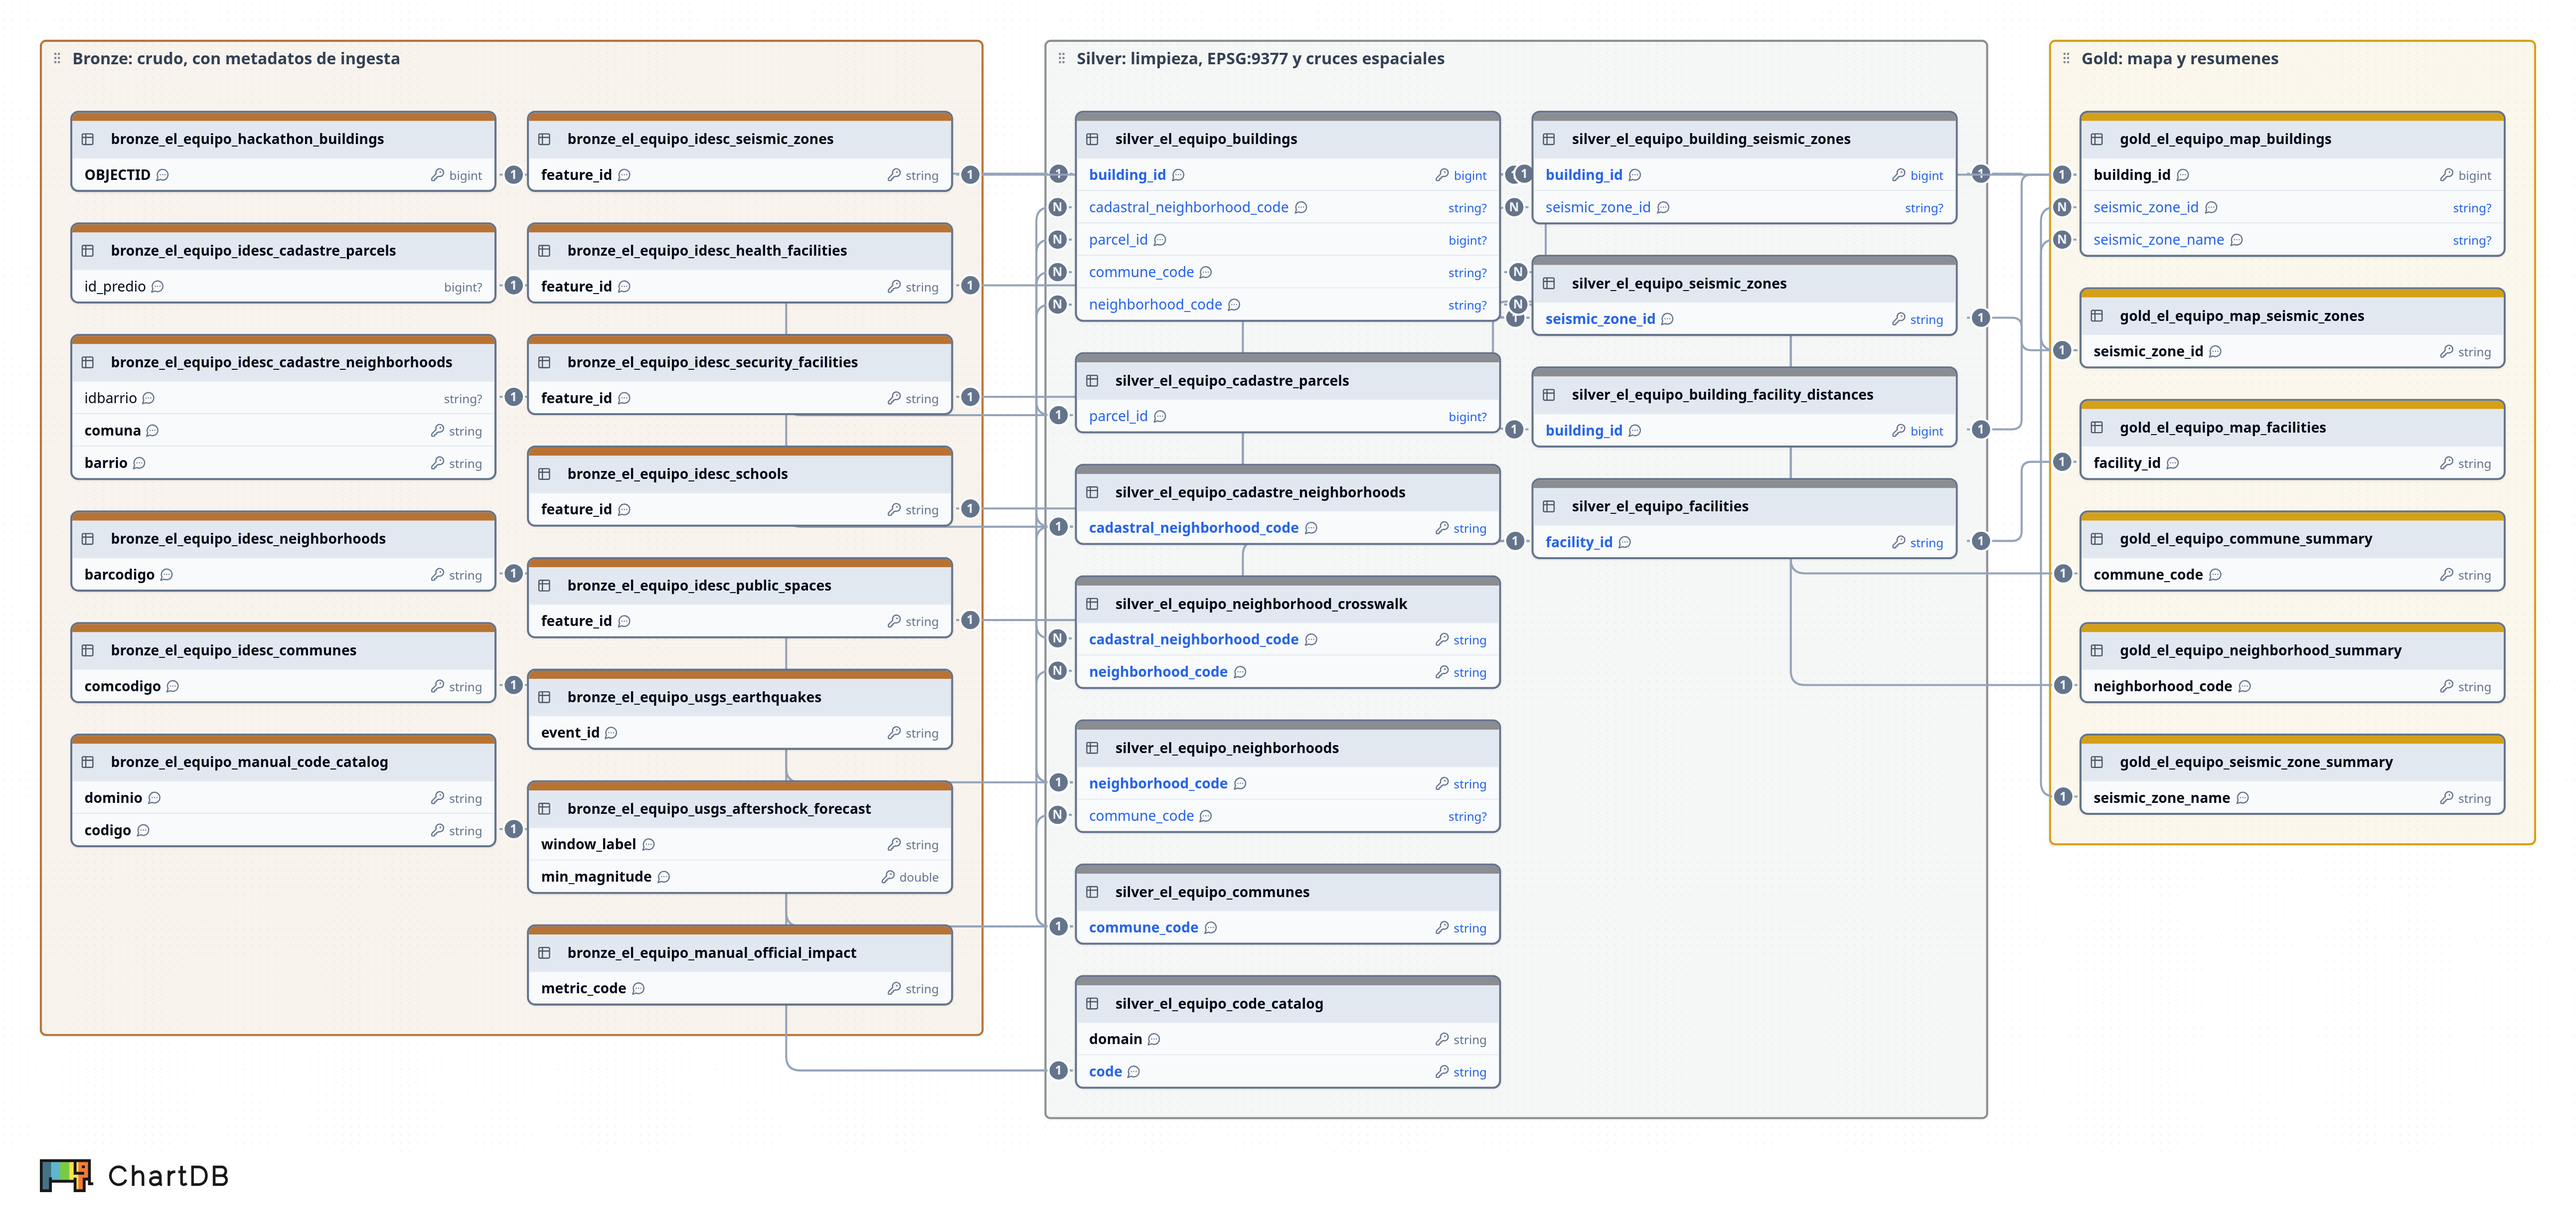
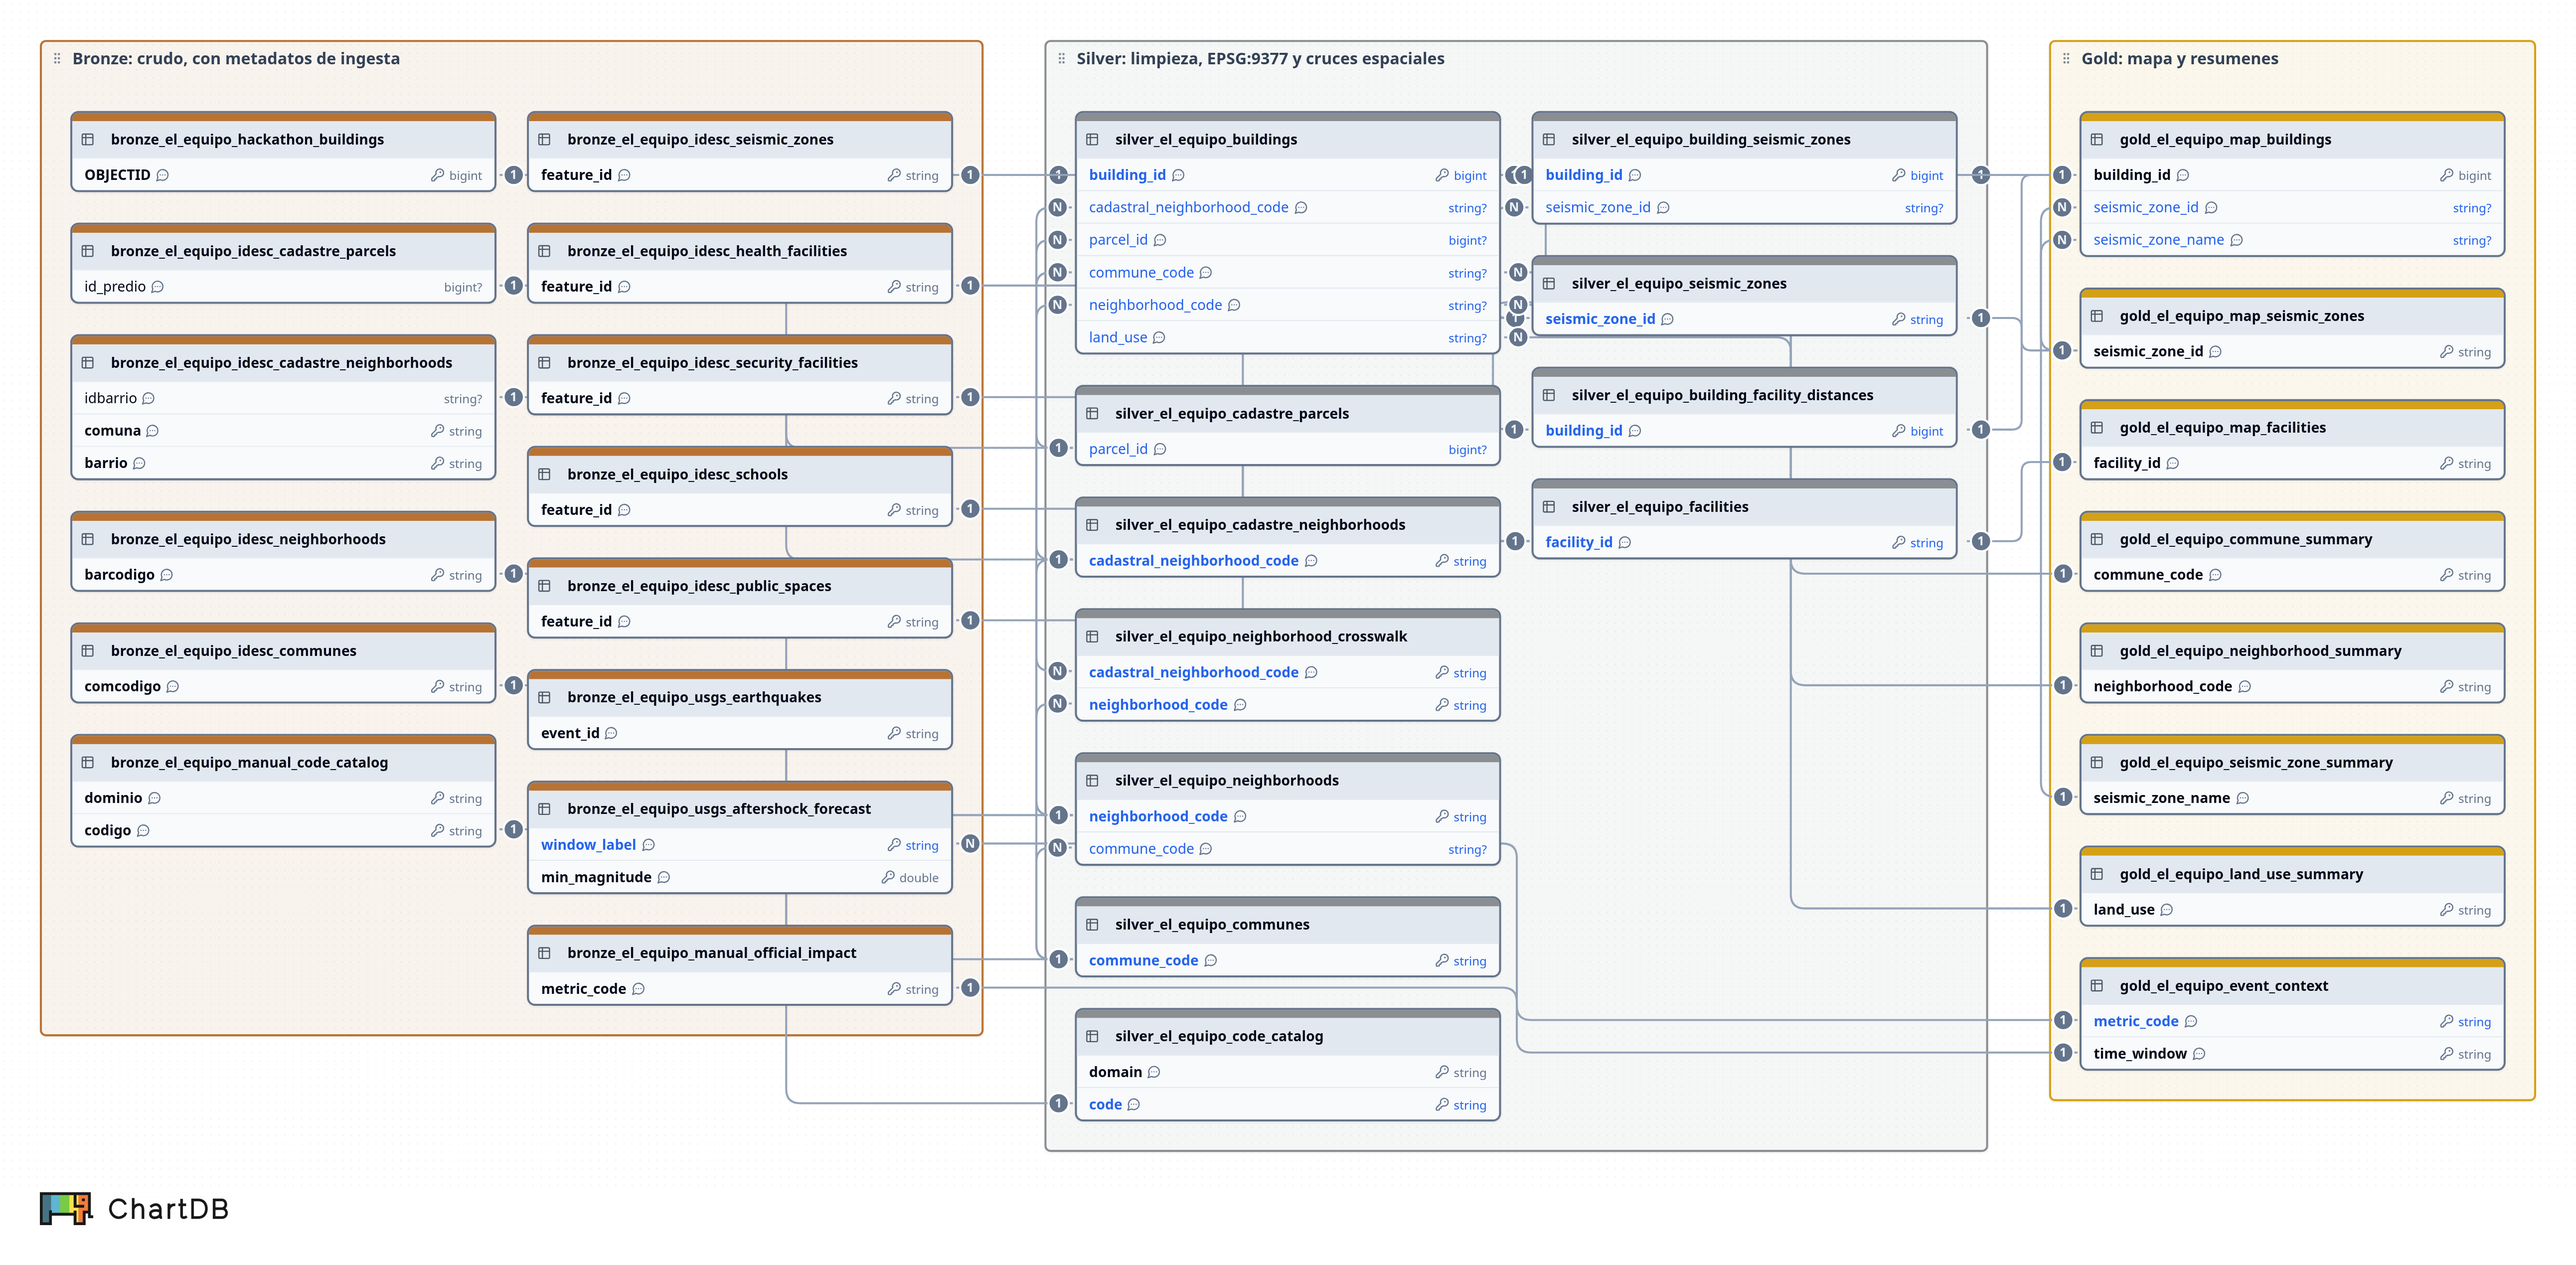
docs: update data diagrams with land use and event context tables
Add gold_el_equipo_land_use_summary and gold_el_equipo_event_context and
the new cadastre columns of gold_el_equipo_map_buildings to the ChartDB
diagrams, with their lineage relationships. Parse composite keys written
in parentheses in the data dictionary.

Changed region(s): [[0.0312, 0.0311, 0.9969, 0.9345], [0.0312, 0.9345, 0.0935, 0.9656]]

diff --git a/scripts/diagrams/dictionary_to_dbml.py b/scripts/diagrams/dictionary_to_dbml.py
@@ -99,8 +99,11 @@ def parse_dictionary(path: Path) -> list[dict]:
 def key_columns(table: dict) -> list[str]:
     key = table["meta"].get("Llave", "")
     names = {c["name"] for c in table["columns"]}
-    # Only the part before any parenthesis lists the key; the rest is a remark.
-    return [k for k in re.findall(r"`([^`]+)`", key.split("(")[0]) if k in names]
+    # The key is listed before any parenthesis, which holds a remark; a key written
+    # whole in parentheses, like (`a`, `b`), is a composite key.
+    head = key.split("(")[0]
+    keys = re.findall(r"`([^`]+)`", head) or re.findall(r"`([^`]+)`", key)
+    return [k for k in keys if k in names]
 
 
 def build(tables: list[dict], rels: list[dict], keys_only: bool, title: str, commit: str) -> str:

diff --git a/README.md b/README.md
@@ -12,7 +12,7 @@ Los dos cruces principales con fuentes externas son la **microzonificación sís
 
 Todas las tablas viven en `workspace.default` (configurable) con prefijo `el_equipo` y siguen la convención de [`docs/conventions.md`](docs/conventions.md) (identificadores en inglés, textos en español). El detalle de cada tabla y columna está en [`docs/data_dictionary.md`](docs/data_dictionary.md). El job `el_equipo_medallion` las construye en orden.
 
-[![Arquitectura de datos medallion: 31 tablas bronze, silver y gold con sus llaves y relaciones](docs/diagrams/img/medallion_overview.png)](docs/diagrams/img/medallion_overview.png)
+[![Arquitectura de datos medallion: 33 tablas bronze, silver y gold con sus llaves y relaciones](docs/diagrams/img/medallion_overview.png)](docs/diagrams/img/medallion_overview.png)
 
 *Vista general (llaves y relaciones). Diagramas con todas las columnas: [modelo silver y gold](docs/diagrams/img/silver_gold_model.png) y [fuentes bronze](docs/diagrams/img/bronze_sources.png). Ver [Diagramas de datos](#diagramas-de-datos-chartdb).*
 
@@ -178,8 +178,8 @@ ChartDB es la herramienta oficial para diagramas de datos. Los diagramas se guar
 
 | Diagrama | Qué muestra | Imagen | Fuente DBML |
 | -------- | ----------- | ------ | ----------- |
-| Vista general medallion | Las 31 tablas (14 bronze, 11 silver, 6 gold) con sus llaves y el linaje y los cruces entre capas | [PNG](docs/diagrams/img/medallion_overview.png) | [`medallion_overview.dbml`](docs/diagrams/medallion_overview.dbml) |
-| Modelo silver y gold | Las 17 tablas analíticas con todas sus columnas, tipos, llaves y relaciones (edificio, barrio y comuna oficiales, catastro, microzonas, equipamientos, capas del mapa y resúmenes) | [PNG](docs/diagrams/img/silver_gold_model.png) | [`silver_gold_model.dbml`](docs/diagrams/silver_gold_model.dbml) |
+| Vista general medallion | Las 33 tablas (14 bronze, 11 silver, 8 gold) con sus llaves y el linaje y los cruces entre capas | [PNG](docs/diagrams/img/medallion_overview.png) | [`medallion_overview.dbml`](docs/diagrams/medallion_overview.dbml) |
+| Modelo silver y gold | Las 19 tablas analíticas con todas sus columnas, tipos, llaves y relaciones (edificio, barrio y comuna oficiales, catastro, microzonas, equipamientos, capas del mapa, resúmenes y contexto del evento) | [PNG](docs/diagrams/img/silver_gold_model.png) | [`silver_gold_model.dbml`](docs/diagrams/silver_gold_model.dbml) |
 | Fuentes bronze | Esquema crudo de cada fuente (hackathon, IDESC, USGS y manual) con sus metadatos de ingesta | [PNG](docs/diagrams/img/bronze_sources.png) | [`bronze_sources.dbml`](docs/diagrams/bronze_sources.dbml) |
 
 [![Modelo silver y gold con todas las columnas](docs/diagrams/img/silver_gold_model.png)](docs/diagrams/img/silver_gold_model.png)
